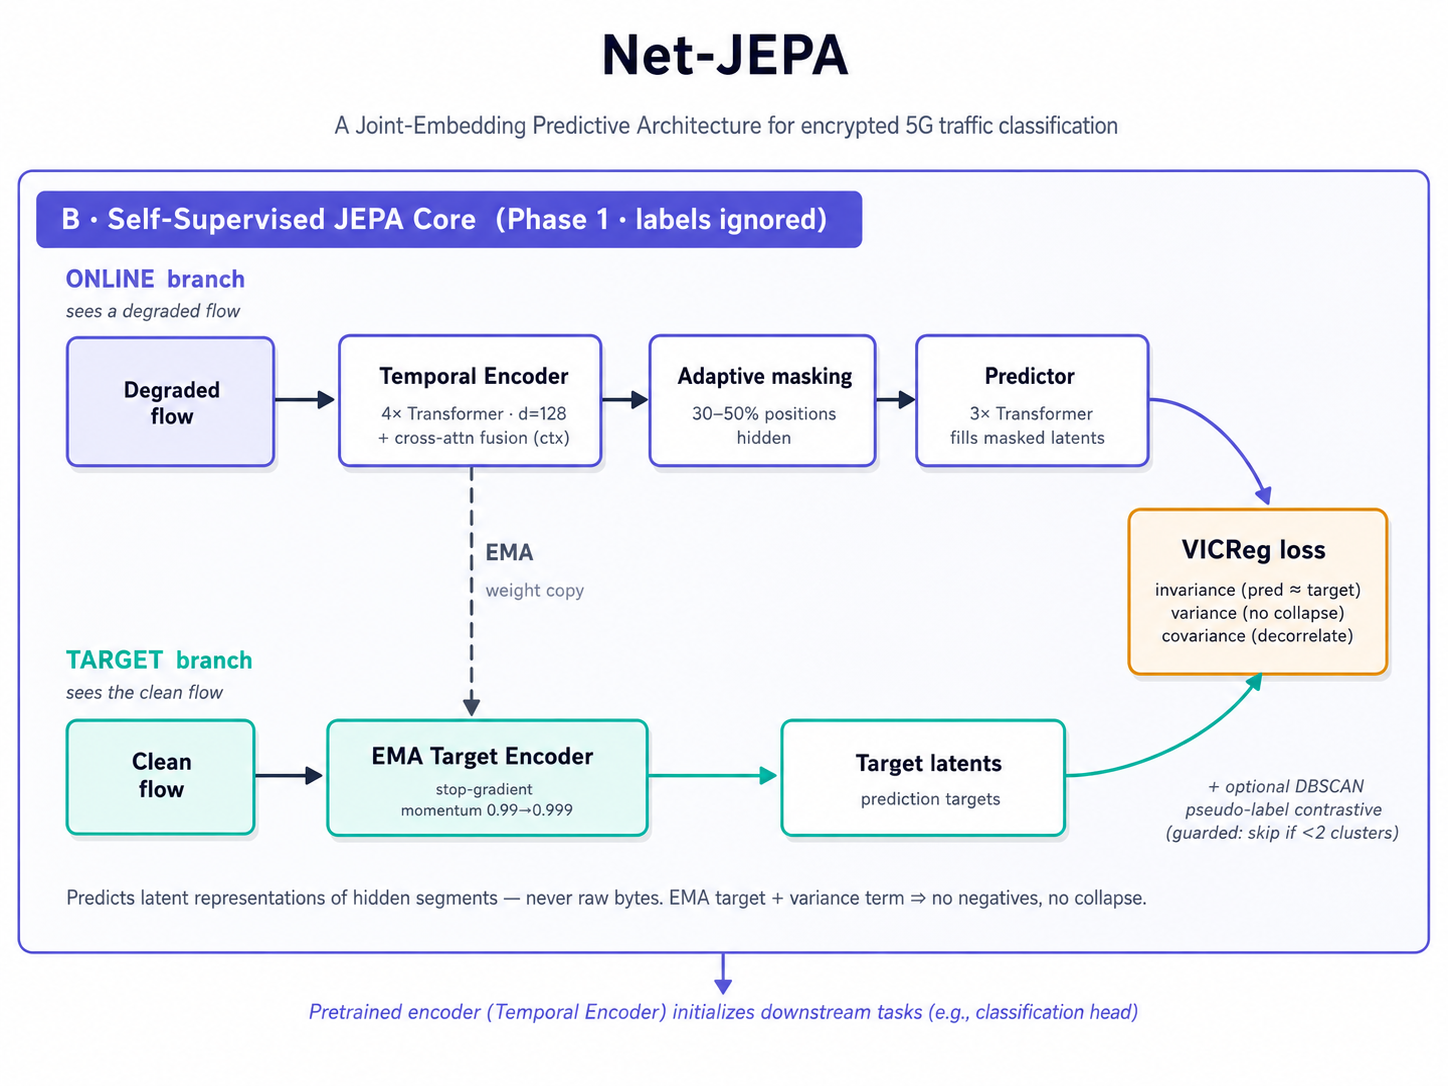
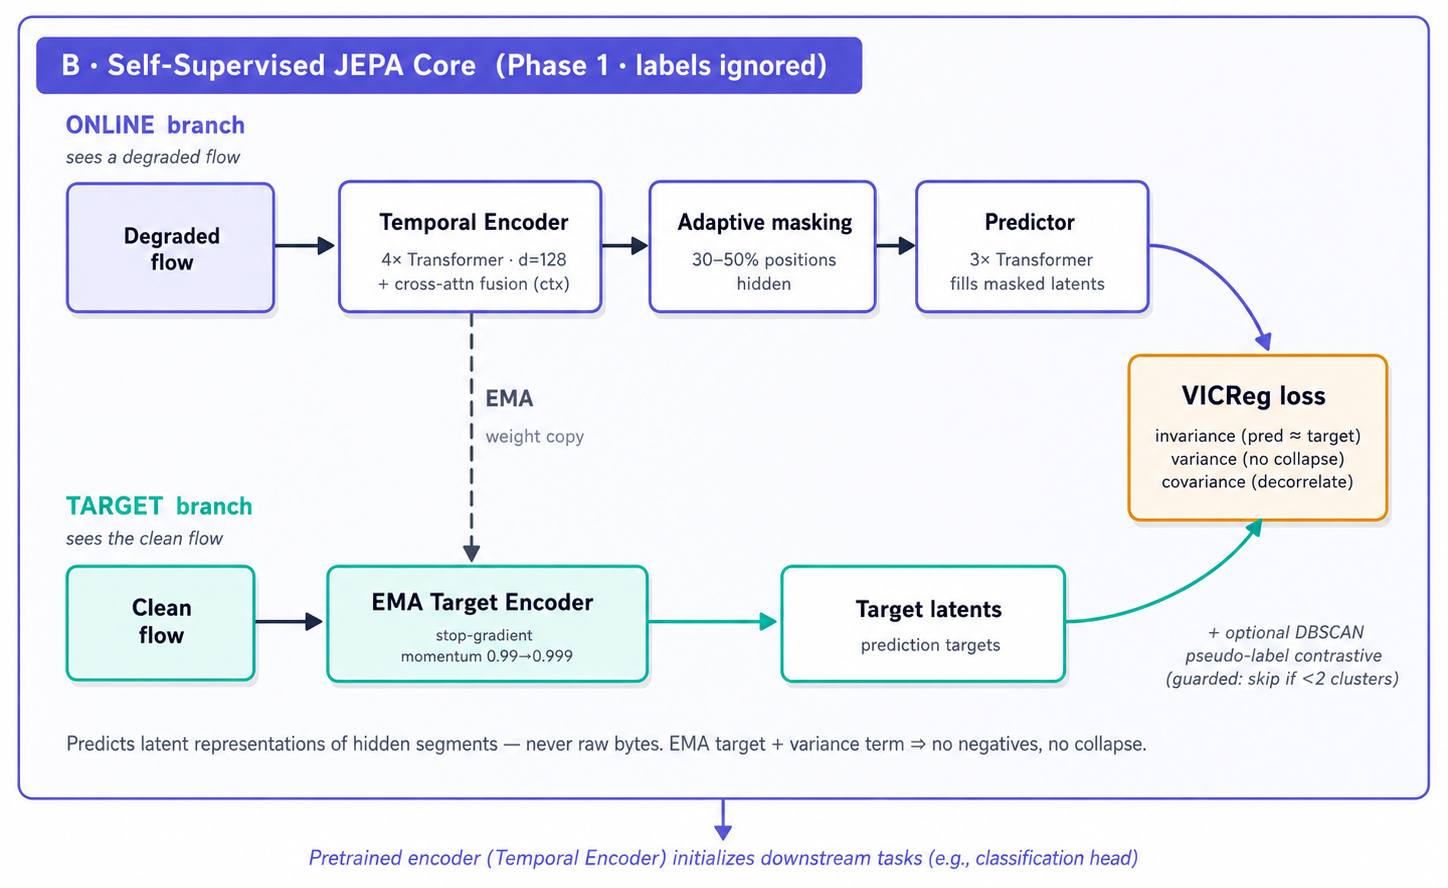
Crop architecture diagram headers, trim whitespace, add framework badges to doc.md

diff --git a/doc.md b/doc.md
@@ -8,6 +8,20 @@ Net-JEPA is a Joint-Embedding Predictive Architecture for encrypted network traf
 classification. It learns flow embeddings self-supervised (no labels during pretraining)
 and uses them to classify traffic into 15 application categories across 6 coarse groups.
 
+<p align="center">
+  <a href="https://pytorch.org"><img src="https://img.shields.io/badge/PyTorch-EE4C2C?style=flat-square&logo=pytorch&logoColor=white" alt="PyTorch"/></a>
+  <a href="https://scikit-learn.org"><img src="https://img.shields.io/badge/scikit--learn-F7931E?style=flat-square&logo=scikit-learn&logoColor=white" alt="scikit-learn"/></a>
+  <a href="https://numpy.org"><img src="https://img.shields.io/badge/NumPy-013243?style=flat-square&logo=numpy&logoColor=white" alt="NumPy"/></a>
+  <a href="https://pandas.pydata.org"><img src="https://img.shields.io/badge/pandas-150458?style=flat-square&logo=pandas&logoColor=white" alt="pandas"/></a>
+  <a href="https://fastapi.tiangolo.com"><img src="https://img.shields.io/badge/FastAPI-009688?style=flat-square&logo=fastapi&logoColor=white" alt="FastAPI"/></a>
+  <a href="https://scapy.net"><img src="https://img.shields.io/badge/Scapy-007ACC?style=flat-square&logo=python&logoColor=white" alt="Scapy"/></a>
+  <a href="https://umap-learn.readthedocs.io"><img src="https://img.shields.io/badge/UMAP-6A0DAD?style=flat-square&logo=python&logoColor=white" alt="UMAP"/></a>
+  <a href="https://react.dev"><img src="https://img.shields.io/badge/React-61DAFB?style=flat-square&logo=react&logoColor=black" alt="React"/></a>
+  <a href="https://www.typescriptlang.org"><img src="https://img.shields.io/badge/TypeScript-3178C6?style=flat-square&logo=typescript&logoColor=white" alt="TypeScript"/></a>
+  <a href="https://tailwindcss.com"><img src="https://img.shields.io/badge/Tailwind_CSS-06B6D4?style=flat-square&logo=tailwindcss&logoColor=white" alt="Tailwind CSS"/></a>
+  <a href="https://vite.dev"><img src="https://img.shields.io/badge/Vite-646CFF?style=flat-square&logo=vite&logoColor=white" alt="Vite"/></a>
+</p>
+
 > This is the deep engineering reference. For the structured docs set (overview, datasets,
 > tech-stack, results, features, agentic-AI write-up, presentation), see [`docs/`](docs/README.md).
 > For the honest chronological research log, see [`experimentation.md`](experimentation.md).
